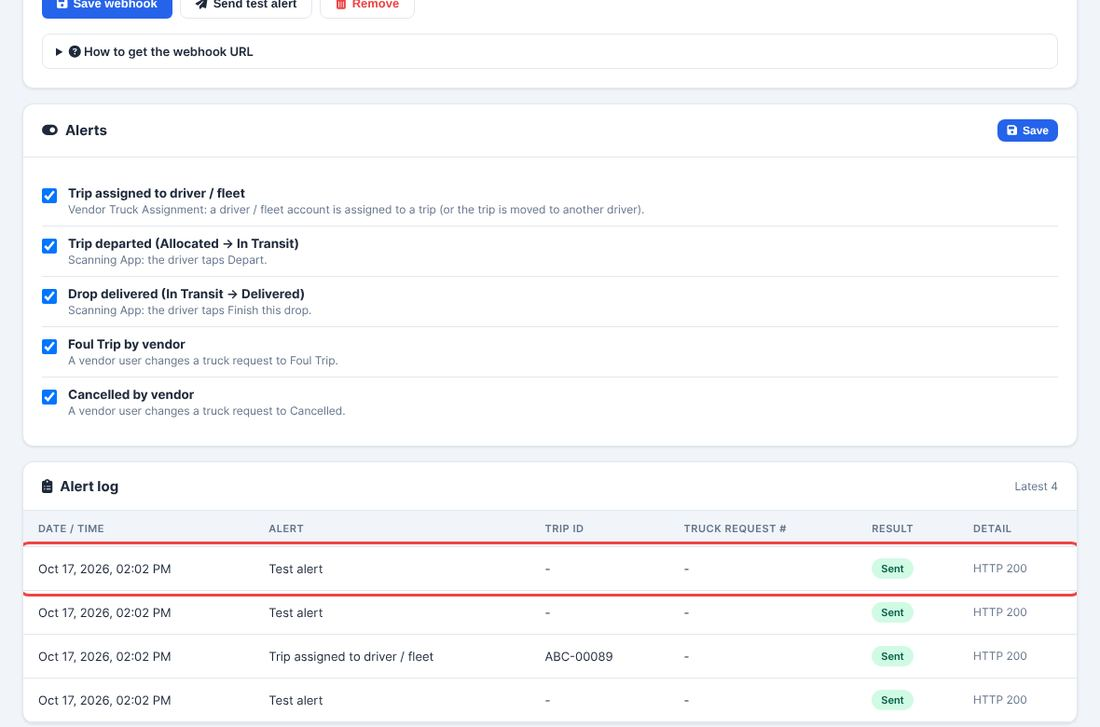
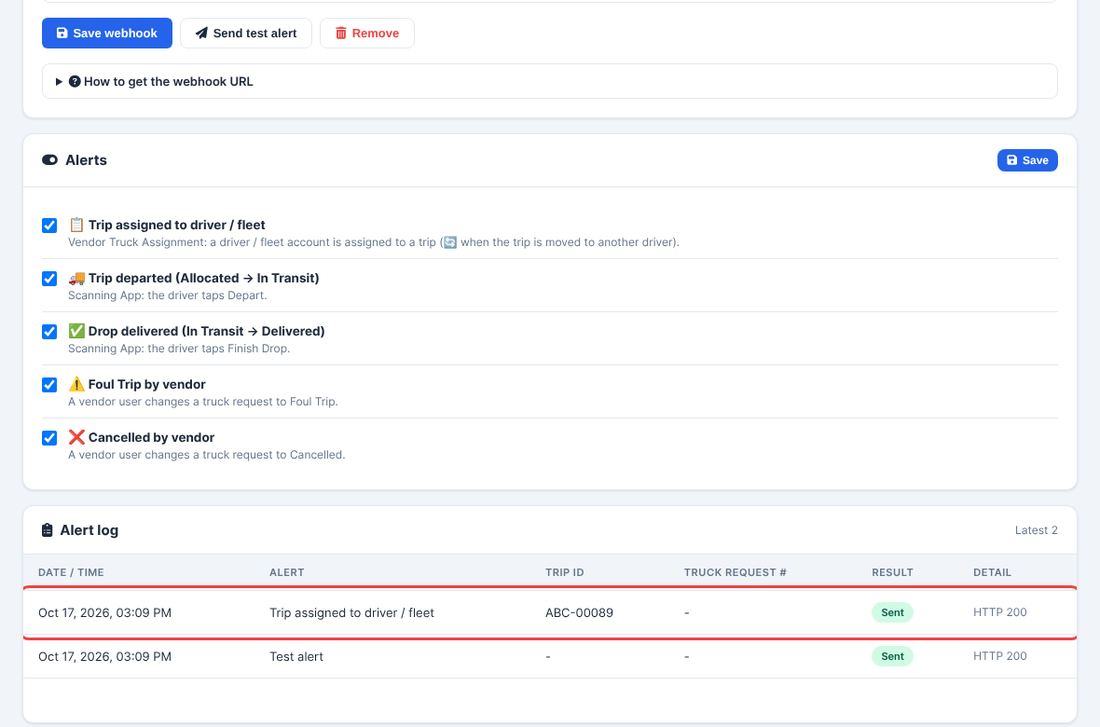
Chat alerts: one emoji per alert type in the header and on the settings page

diff --git a/backend/static/index.html b/backend/static/index.html
@@ -78,7 +78,7 @@ tr:hover td{background:#F8FAFC}
 .su-grow{display:grid;grid-template-columns:repeat(auto-fit,minmax(220px,1fr));gap:16px;font-size:13px}.su-grow ul{margin:6px 0 0 18px;line-height:1.7}
 .su-note{margin-top:14px;font-size:12.5px;color:var(--muted);background:var(--bg);border:1px solid var(--bdr);border-radius:8px;padding:10px 12px}
 .ca-how{margin-top:16px;font-size:13px;border:1px solid var(--bdr);border-radius:8px;padding:10px 14px}.ca-how summary{cursor:pointer;font-weight:600}.ca-how ol{margin:10px 0 6px 20px;line-height:1.7}.ca-how p{color:var(--muted);font-size:12.5px}
-.ca-type{display:flex;gap:12px;align-items:flex-start;padding:10px 0;border-bottom:1px solid var(--bdr);cursor:pointer}.ca-type:last-child{border-bottom:none}.ca-type input{margin-top:3px;width:16px;height:16px;flex-shrink:0}.ca-type b{display:block;font-size:13.5px}.ca-type small{display:block;font-size:12px;color:var(--muted);margin-top:2px}
+.ca-type{display:flex;gap:12px;align-items:flex-start;padding:10px 0;border-bottom:1px solid var(--bdr);cursor:pointer}.ca-type:last-child{border-bottom:none}.ca-type input{margin-top:3px;width:16px;height:16px;flex-shrink:0}.ca-type b{display:block;font-size:13.5px}.ca-emo{font-size:15px}.ca-type small{display:block;font-size:12px;color:var(--muted);margin-top:2px}
 @media(max-width:900px){.su-two{grid-template-columns:1fr}}
 .b-bl{background:#DBEAFE;color:#1D4ED8}.b-gn{background:#D1FAE5;color:#065F46}.b-yl{background:#FEF3C7;color:#92400E}.b-rd{background:#FEE2E2;color:#991B1B}.b-pp{background:#EDE9FE;color:#5B21B6}.b-gy{background:#F1F5F9;color:#475569}
 .mo{display:none;position:fixed;inset:0;background:rgba(0,0,0,.5);z-index:9999;align-items:center;justify-content:center}
@@ -674,7 +674,7 @@ body.scan-mode .layout{display:none}
 <div class="card" style="margin-bottom:16px;scroll-margin-top:90px" data-gid="g-chat">
 <div class="card-h"><h3><i class="fas fa-bell"></i> 20. Google Chat Alerts (Master Admin)</h3><a href="javascript:void(0)" onclick="return guideJump(this,'top')" style="font-size:12px;color:var(--muted);text-decoration:none"><i class="fas fa-arrow-up"></i> Top</a></div>
 <div class="card-b">
-<ol class="guide-steps"><li>The app posts to a Google Chat space when: a trip is <strong>assigned to a driver / fleet</strong> (or moved to another driver), the driver taps <strong>Depart</strong> (In Transit), the driver taps <strong>Finish Drop</strong> (Delivered), or a <strong>vendor</strong> changes a request to <strong>Foul Trip</strong> or <strong>Cancelled</strong>.</li><li>Set it up once: in Google Chat open the space &rarr; space name &rarr; <strong>Apps &amp; integrations</strong> &rarr; <strong>Webhooks</strong> &rarr; add one and copy its URL. In the app open <strong>Administration &rarr; Google Chat Alerts</strong>, paste the URL, click <strong>Save webhook</strong>, then <strong>Send test alert</strong>.</li><li>Tick or untick each alert under <strong>Alerts</strong> and click <strong>Save</strong>.</li><li>Trip alerts list the trip, driver, phone, vendor, truck, origin and final call, then every truck request on the trip (MAWBs, account, packaging, Revised Qty, destination, drop #). When the trip has no final call yet, each request&rsquo;s <strong>Initial Call (TBC)</strong> is shown instead.</li><li>Drop delivered, Foul Trip and Cancelled alerts name the <strong>vendor</strong> in the title and show the request (Trip ID, drop #, MAWBs, account, packaging, Revised Qty, ports). Drop delivered and Foul Trip alerts also show the driver / fleet username, driver name, phone, truck plate and truck type.</li><li>The <strong>Alert log</strong> shows every alert: <strong>Sent</strong>, <strong>Failed</strong> (with Google Chat&rsquo;s reason) or <strong>Not sent</strong> (no webhook set).</li></ol>
+<ol class="guide-steps"><li>The app posts to a Google Chat space when: a trip is <strong>assigned to a driver / fleet</strong> (or moved to another driver), the driver taps <strong>Depart</strong> (In Transit), the driver taps <strong>Finish Drop</strong> (Delivered), or a <strong>vendor</strong> changes a request to <strong>Foul Trip</strong> or <strong>Cancelled</strong>.</li><li>Set it up once: in Google Chat open the space &rarr; space name &rarr; <strong>Apps &amp; integrations</strong> &rarr; <strong>Webhooks</strong> &rarr; add one and copy its URL. In the app open <strong>Administration &rarr; Google Chat Alerts</strong>, paste the URL, click <strong>Save webhook</strong>, then <strong>Send test alert</strong>.</li><li>Tick or untick each alert under <strong>Alerts</strong> and click <strong>Save</strong>.</li><li>Each alert starts with its own emoji so it is easy to spot in Chat: &#x1F4CB; trip assigned to driver / fleet, &#x1F504; trip re-assigned to another driver, &#x1F69A; trip departed (In Transit), &#x2705; drop delivered, &#x26A0;&#xFE0F; Foul Trip by vendor, &#x274C; Cancelled by vendor (&#x1F514; = test alert).</li><li>Trip alerts list the trip, driver, phone, vendor, truck, origin and final call, then every truck request on the trip (MAWBs, account, packaging, Revised Qty, destination, drop #). When the trip has no final call yet, each request&rsquo;s <strong>Initial Call (TBC)</strong> is shown instead.</li><li>Drop delivered, Foul Trip and Cancelled alerts name the <strong>vendor</strong> in the title and show the request (Trip ID, drop #, MAWBs, account, packaging, Revised Qty, ports). Drop delivered and Foul Trip alerts also show the driver / fleet username, driver name, phone, truck plate and truck type.</li><li>The <strong>Alert log</strong> shows every alert: <strong>Sent</strong>, <strong>Failed</strong> (with Google Chat&rsquo;s reason) or <strong>Not sent</strong> (no webhook set).</li></ol>
 <div class="guide-warn"><i class="fas fa-triangle-exclamation"></i> Anyone with the webhook URL can post to the space &mdash; keep it private. The app never shows it again in full.</div>
 <div class="g-shots"><figure class="g-shot"><a href="/guide/20-chat-alerts.jpg" target="_blank" rel="noopener" title="Open full size"><img src="/guide/20-chat-alerts.jpg" alt="Paste the webhook URL, Save, then Send test alert." loading="lazy"></a><figcaption><i class="fas fa-image"></i> Paste the webhook URL, Save, then Send test alert.</figcaption></figure><figure class="g-shot"><a href="/guide/20b-chat-log.jpg" target="_blank" rel="noopener" title="Open full size"><img src="/guide/20b-chat-log.jpg" alt="Switch alerts on / off; every alert is in the log." loading="lazy"></a><figcaption><i class="fas fa-image"></i> Switch alerts on / off; every alert is in the log.</figcaption></figure></div>
 </div></div>
@@ -1133,7 +1133,7 @@ function renderChatAlerts(){
   h+='<div id="caTestRes" style="font-size:13px;margin-top:10px"></div>';
   h+='<details class="ca-how"><summary><i class="fas fa-circle-question"></i> How to get the webhook URL</summary><ol><li>In Google Chat, open the space that should receive the alerts.</li><li>Click the space name &rarr; <strong>Apps &amp; integrations</strong> &rarr; <strong>Webhooks</strong> (or <strong>Add webhooks</strong>).</li><li>Give it a name (e.g. <em>SP PH Truck Booking</em>) and click <strong>Save</strong>.</li><li>Copy the URL, paste it above and click <strong>Save webhook</strong>, then <strong>Send test alert</strong>.</li></ol><p>Anyone with the URL can post to the space, so keep it private. It is never shown again in full here.</p></details>';
   document.getElementById('caHook').innerHTML=h;
-  document.getElementById('caTypes').innerHTML=(d.types||[]).map(t=>'<label class="ca-type"><input type="checkbox" class="ca-cb" data-k="'+t.key+'"'+((d.enabled||{})[t.key]?' checked':'')+'><span><b>'+esc(t.label)+'</b><small>'+esc(t.when)+'</small></span></label>').join('');
+  document.getElementById('caTypes').innerHTML=(d.types||[]).map(t=>'<label class="ca-type"><input type="checkbox" class="ca-cb" data-k="'+t.key+'"'+((d.enabled||{})[t.key]?' checked':'')+'><span><b>'+(t.emoji?'<span class="ca-emo">'+esc(t.emoji)+'</span> ':'')+esc(t.label)+'</b><small>'+esc(t.when)+'</small></span></label>').join('');
   const log=d.log||[];
   document.getElementById('caCnt').textContent=log.length?('Latest '+log.length):'';
   const badge=s=>s==='sent'?'<span class="badge b-gn">Sent</span>':s==='failed'?'<span class="badge b-rd">Failed</span>':'<span class="badge b-yl">Not sent</span>';

diff --git a/backend/main.py b/backend/main.py
@@ -7947,7 +7947,7 @@ import urllib.error as _urlerr
 
 CHAT_ALERT_TYPES = [
     ("driver_assigned", "Trip assigned to driver / fleet",
-     "Vendor Truck Assignment: a driver / fleet account is assigned to a trip (or the trip is moved to another driver)."),
+     "Vendor Truck Assignment: a driver / fleet account is assigned to a trip (\U0001F504 when the trip is moved to another driver)."),
     ("departed", "Trip departed (Allocated → In Transit)",
      "Scanning App: the driver taps Depart."),
     ("delivered", "Drop delivered (In Transit → Delivered)",
@@ -7960,6 +7960,9 @@ CHAT_ALERT_TYPES = [
 CHAT_ALERT_LABEL = {k: lbl for k, lbl, _ in CHAT_ALERT_TYPES}
 CHAT_ALERT_LABEL["test"] = "Test alert"
 CHAT_WEBHOOK_ENV = "GOOGLE_CHAT_WEBHOOK_URL"
+# One emoji per alert, at the start of its header, so each kind is easy to tell apart in Chat.
+CHAT_ALERT_EMOJI = {"driver_assigned": "\U0001F4CB", "reassigned": "\U0001F504", "departed": "\U0001F69A",
+                    "delivered": "\u2705", "foul_trip": "\u26A0\uFE0F", "cancelled": "\u274C", "test": "\U0001F514"}
 CHAT_TEXT_MAX = 3900          # Google Chat caps a text message at 4,096 characters
 _CHAT_URL_RE = re.compile(r"^https://chat\.googleapis\.com/v1/spaces/[A-Za-z0-9_-]+/messages\?[^\s<>\"']+$")
 
@@ -8199,7 +8202,8 @@ def _alert_trip_text(atype, base, extra_head=None):
              "departed": "Trip departed — now In Transit"}.get(atype, "Trip update")
     if atype == "driver_assigned" and extra_head == "reassigned":
         title = "Trip re-assigned to another driver / fleet"
-    lines = [f"*{title}*"]
+    emo = CHAT_ALERT_EMOJI["reassigned" if (atype == "driver_assigned" and extra_head == "reassigned") else atype]
+    lines = [f"{emo} *{title}*"]
     if atype == "departed":
         ap = sorted(str(to_gmt8(r.get("arrived_pickup_datetime"))) for r in ordered if r.get("arrived_pickup_datetime"))
         el = sorted(str(to_gmt8(r.get("end_loading_datetime"))) for r in ordered if r.get("end_loading_datetime"))
@@ -8265,7 +8269,7 @@ def _alert_request_text(atype, rid, before=None):
         title = {"delivered": f"Drop delivered \u2014 {vendor}",
                  "foul_trip": f"Truck request updated to Foul Trip by {vendor}",
                  "cancelled": f"Truck request Cancelled by {vendor}"}[atype]
-    lines = [f"*{title}*"]
+    lines = [f"{CHAT_ALERT_EMOJI[atype]} *{title}*"]
     if atype == "delivered":
         lines.append(f"*Delivered:* {_fmt_dt(r.get('end_unloading_datetime'))}")
     elif atype == "foul_trip":
@@ -8321,7 +8325,7 @@ def _chat_public(cfg):
             "webhook_masked": _chat_mask(cfg["url"]),
             "env_set": bool(os.environ.get(CHAT_WEBHOOK_ENV, "").strip()),
             "enabled": cfg["enabled"],
-            "types": [{"key": k, "label": lbl, "when": w} for k, lbl, w in CHAT_ALERT_TYPES]}
+            "types": [{"key": k, "label": lbl, "when": w, "emoji": CHAT_ALERT_EMOJI.get(k, "")} for k, lbl, w in CHAT_ALERT_TYPES]}
 
 @app.get("/api/admin/chat-alerts", tags=["admin"])
 def get_chat_alerts(request: Request):
@@ -8365,7 +8369,7 @@ async def test_chat_alert(request: Request):
     if not _chat_url_ok(cfg["url"]):
         raise HTTPException(400, "The saved webhook is not a Google Chat webhook URL")
     on = [lbl for k, lbl, _ in CHAT_ALERT_TYPES if cfg["enabled"].get(k)]
-    text = ("*Test alert — SP PH Truck Booking*\nGoogle Chat alerts are connected.\n"
+    text = (f"{CHAT_ALERT_EMOJI['test']} *Test alert — SP PH Truck Booking*\nGoogle Chat alerts are connected.\n"
             f"*Sent by:* {u.get('name') or u.get('email') or '-'}\n*Sent at:* {_fmt_dt(nows())}\n"
             f"*Alerts switched on:* {', '.join(on) if on else 'none'}")
     status, detail = await run_in_threadpool(_chat_deliver, "test", text, "", "", cfg["url"])
